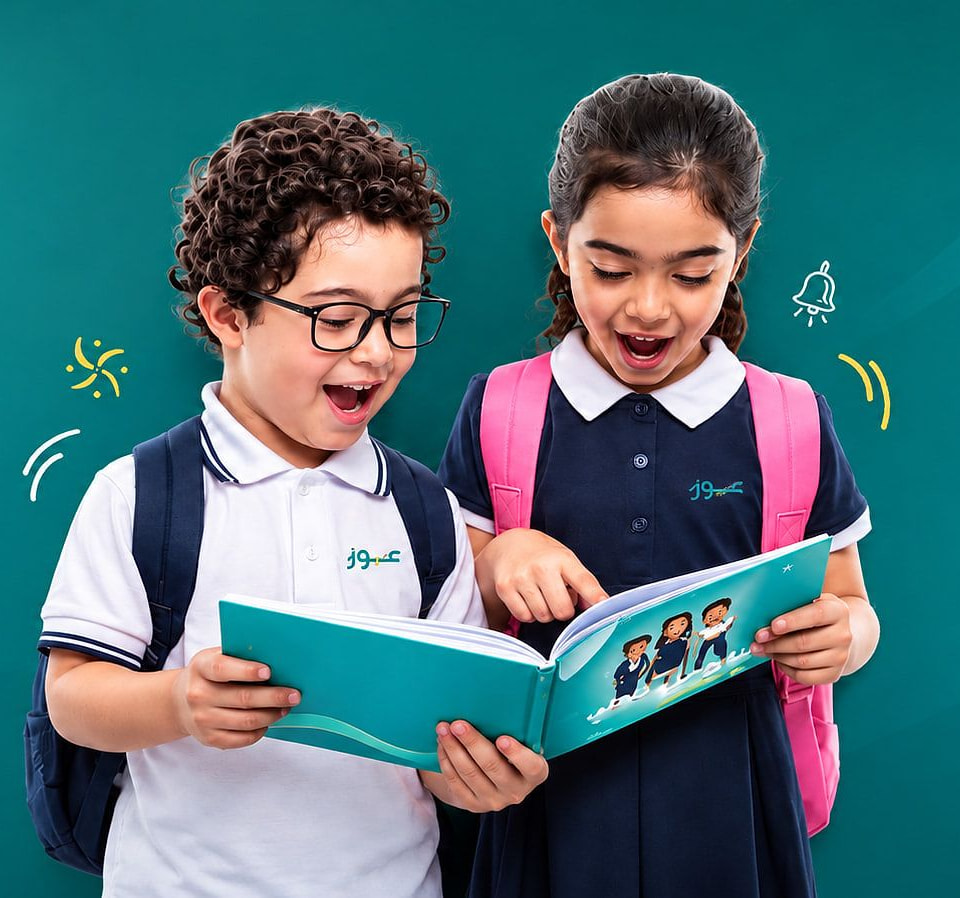
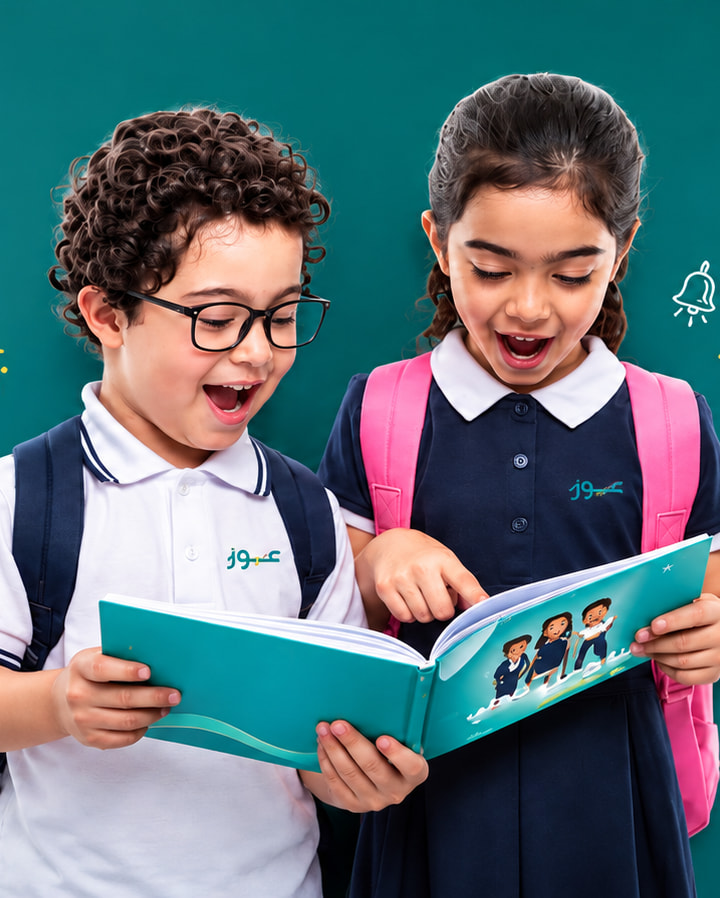
perf(home): smaller mobile hero (720w center crop, q75, max-width 479px)

diff --git a/src/components/home/Hero.tsx b/src/components/home/Hero.tsx
@@ -25,17 +25,17 @@ const HERO_BLUR: Record<string, string> = {
[2 lines of base64/hex data omitted]
 };
-// نسخة موبايل مقصوصة من منتصف الصورة العريضة (960×898) — شاشة الموبايل بتعرض الجزء ده بس،
-// فبدل تنزيل الصورة العريضة كلها (~77KB) بننزّل النص بنفس الدقة (~30KB) → LCP أسرع.
+// نسخة موبايل مقصوصة من منتصف الصورة العريضة (720×898، بدقة الأصل) — شاشة الموبايل (حتى 479px)
+// بتعرض الجزء ده بس، فبدل تنزيل الصورة العريضة كلها بننزّل الجزء الظاهر بجودة 75 → LCP أسرع.
 // ?v= لكسر كاش المتصفح/الـCDN بعد تحديث الملفات (الـCMS بيفضل شايل المسار من غير ?v).
 const HERO_ART: Record<string, { desk: string; mob: string }> = {
-  "/figma/home/hero-1.jpg": { desk: "/figma/home/hero-1.jpg?v=2", mob: "/figma/home/hero-1-m.jpg?v=2" },
-  "/figma/home/hero-2.jpg": { desk: "/figma/home/hero-2.jpg?v=2", mob: "/figma/home/hero-2-m.jpg?v=2" },
-  "/figma/home/hero-3.jpg": { desk: "/figma/home/hero-3.jpg?v=2", mob: "/figma/home/hero-3-m.jpg?v=2" },
+  "/figma/home/hero-1.jpg": { desk: "/figma/home/hero-1.jpg?v=2", mob: "/figma/home/hero-1-m.jpg?v=3" },
+  "/figma/home/hero-2.jpg": { desk: "/figma/home/hero-2.jpg?v=2", mob: "/figma/home/hero-2-m.jpg?v=3" },
+  "/figma/home/hero-3.jpg": { desk: "/figma/home/hero-3.jpg?v=2", mob: "/figma/home/hero-3-m.jpg?v=3" },
 };
-// ارتفاع الهيرو على الموبايل 600px × نسبة النسخة المقصوصة (960/898) ≈ 642px عرض فعلي
-const HERO_MOBILE_SIZES = "642px";
-const HERO_MOBILE_MEDIA = "(max-width: 639px)";
+// ارتفاع الهيرو على الموبايل 600px × نسبة النسخة المقصوصة (720/898) ≈ 481px عرض فعلي
+const HERO_MOBILE_SIZES = "481px";
+const HERO_MOBILE_MEDIA = "(max-width: 479px)";
[1 lines of base64/hex data omitted]
 
 export default function Hero({ locale, slides: slidesProp, chrome }: { locale: Locale; slides?: HeroSlide[]; chrome?: HomeChrome }) {
@@ -218,6 +218,7 @@ function HeroArtImage({ art, alt, first, blur, className }: { art: { desk: strin
     ...common,
     src: art.mob,
     sizes: HERO_MOBILE_SIZES,
+    quality: 75,
     loading: first ? "eager" : "lazy",
     fetchPriority: first ? "high" : undefined,
   });
